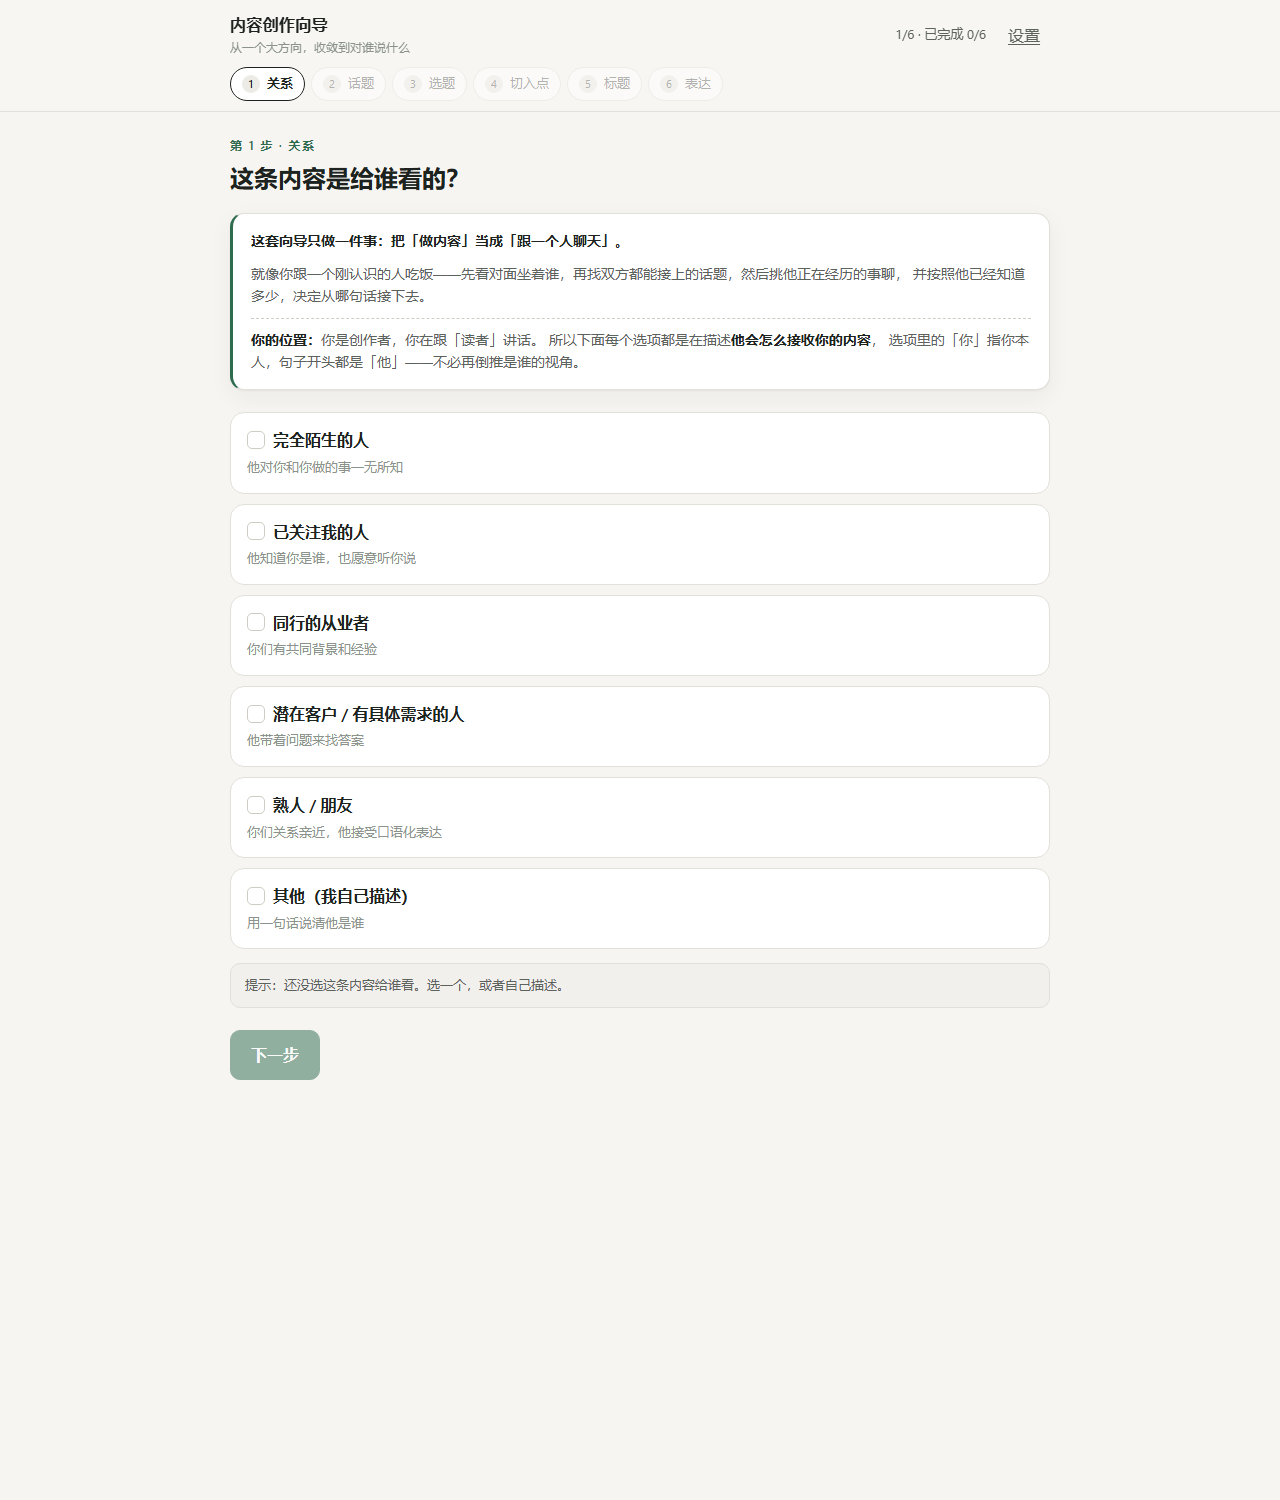
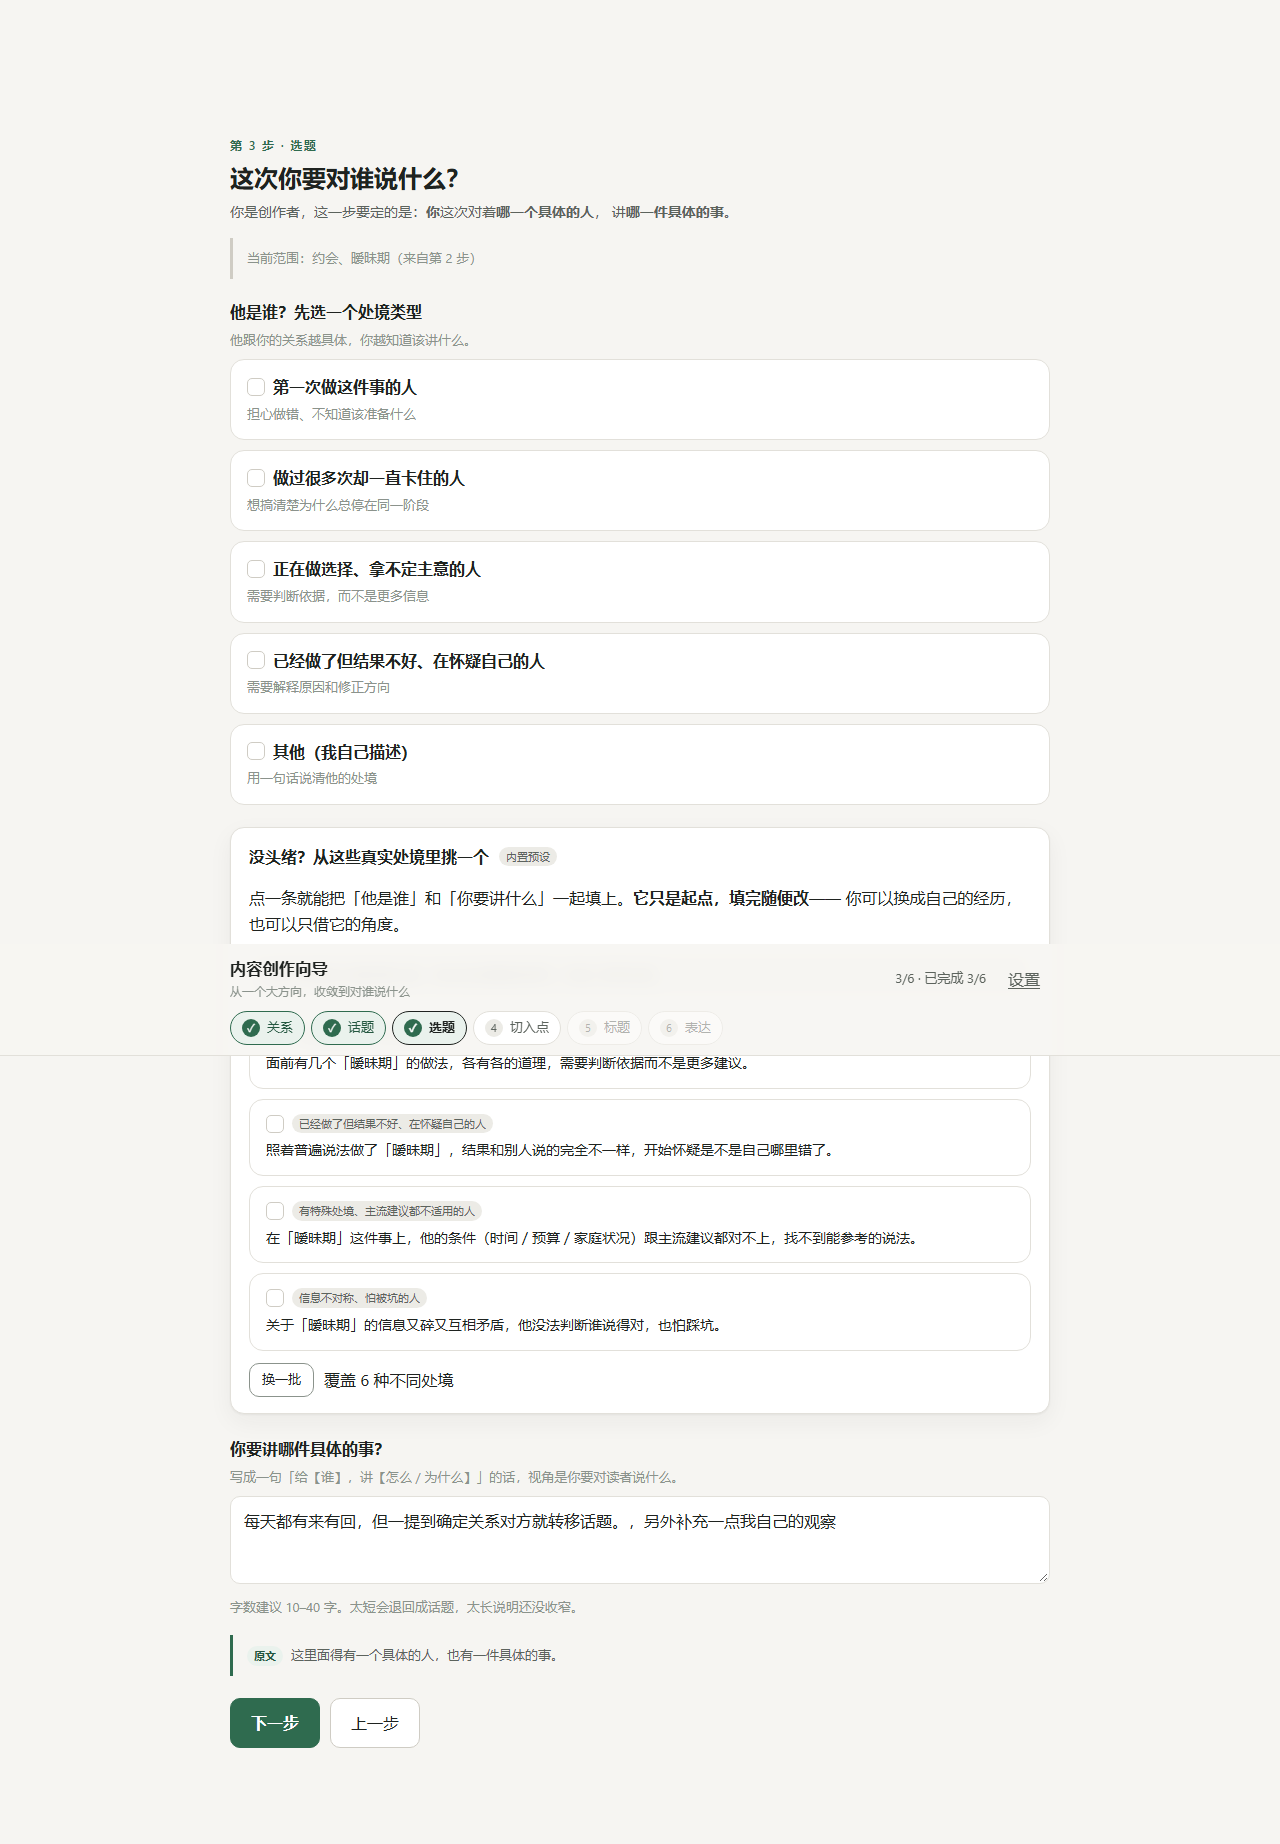
文档：补上新增验收项、灵感示例的来源边界与覆盖度专项

diff --git a/web/README.md b/web/README.md
@@ -75,20 +75,23 @@ web/
 ├── tsconfig.json
 ├── serve-dist.mjs            # 零依赖静态服务器（不 spawn 子进程）
 ├── verify.mjs                # 端到端验收脚本（puppeteer-core + 本机 Chrome）
+├── verify-coverage.mjs       # 专项：用预设库覆盖不到的话题验证灵感示例的相关性
 ├── shots/                    # 验收截图
 └── src/
     ├── main.tsx
     ├── App.tsx               # 步骤状态机、失效传播、导航
-    ├── types.ts              # 领域模型
-    ├── presets.ts            # 内置预设库与规则模板（离线可用）
+    ├── types.ts              # 领域模型 + 每步的原文摘录
+    ├── presets.ts            # 内置预设库、张力模板、灵感示例库（离线可用）
     ├── styles.css
     ├── lib/
     │   ├── model.ts          # 唯一的 AI 适配层，含全部回退逻辑
     │   ├── export.ts         # 简报 / 提示词 / JSON 三种导出（同一份数据源）
+    │   ├── import.ts         # JSON 导入口：把导出的快照粘回来继续改
     │   └── share.ts          # 分享链接（URL hash，纯前端）
     └── steps/
         ├── AudienceStep.tsx  TopicStep.tsx   SubjectStep.tsx
         ├── AngleStep.tsx     TitleStep.tsx   ExpressionStep.tsx
+        ├── StepQuote.tsx     # 做完该步之后才出现的原文摘录
         └── BriefView.tsx     # 最终简报 + 随标签切换的导出动作 + JSON 恢复
 ```
 
@@ -96,32 +99,70 @@ web/
 
 ## 验收结果
 
-`npm run verify` 会用真实 Chrome 走完整流程，逐条核对需求里的验收标准，当前 **41 / 41 通过**：
+`npm run verify` 会用真实 Chrome 走完整流程，逐条核对需求里的验收标准，当前 **56 / 56 通过**；另有 `verify-coverage.mjs` 专项验收 **5 / 5**。
 
 ```
 PASS  页面能加载并渲染第 1 步
+PASS  第 1 步有定位卡片讲清「跟一个人聊天」的参照系
+PASS  定位卡片说明使用者是创作者、并交代「你／他」指谁
+PASS  定位卡片不剧透后面的步骤
+PASS  受众选项的说明用第二人称，不含指代不明的「我」
+PASS  摘录在用户做完这一步之前不出现
+PASS  选完之后才显示该步的原文摘录
 PASS  第 1 步未选时无法进入第 2 步 — 按钮禁用，并给出明确原因
 PASS  输入「情感」出现可选子话题 — 候选数 4，含「约会」
 PASS  候选来源被如实标注 — 标注为内置预设而不是假装模型生成
 PASS  第 2 步未选子话题时无法前进 — 提醒而不是放行
+PASS  第 3 步给出 4 条以上结合当前话题的灵感示例
+PASS  示例是具体的人和事，不是泛泛的类型标签
+PASS  示例标注来源，且不谎称联网检索
+PASS  明说示例只是起点、可以改
+PASS  点一条示例即可一键填上「他是谁」和「你要讲什么」
+PASS  用户改动后不再标示该示例、也不覆盖他的修改
+PASS  「换一批」给的是不同角度的示例
 PASS  第 3 步只填一半时无法前进 — 提示缺哪一半
 PASS  第 4 步给出 6 类切入点候选
 PASS  切入点与选题的一致性提醒生效 / 确认后可消除警告
 PASS  每条标题都带生成理由 — 带理由的标题 3 条
 PASS  选择视频体裁后追加追问
 PASS  简报包含「这次不讲」的过滤清单
+PASS  简报里写明了视角（你/创作者 要对谁讲）
 PASS  导出的 JSON 可解析且字段完整 — schema=content-wizard/brief@1
 PASS  刷新后草稿仍在 localStorage
-PASS  改动第 3 步后「切入点」立刻标待确认
-PASS  改动第 3 步后「标题」立刻标待确认
-PASS  导出动作跟随当前标签且带格式名 — 复制这份JSON / 下载为文件 / 从 JSON 恢复
+PASS  改动第 3 步后「切入点」「标题」立刻标待确认
+PASS  导出动作跟随当前标签且带格式名
 PASS  无效 JSON 被拒绝并给出原因 — 不是静默失败
-PASS  JSON 往返后选题被完整恢复
-PASS  JSON 往返后切入点/标题/体裁一并恢复
+PASS  JSON 往返后选题/切入点/标题/体裁一并恢复
 PASS  页面图标可加载且是 SVG
 PASS  导入之后改上游，下游仍会标待确认
 PASS  外网不可达时页面仍可用（离线回退）
 ```
+
+### 专项验收：灵感示例的覆盖度
+
+`node verify-coverage.mjs` 故意用一个**内置预设库覆盖不到**的话题（默认「宠物殡葬」）跑第 3 步，确认不会退化成空白或通用模板：
+
+```
+PASS  「宠物殡葬」能给出子话题候选 — 入门 / 常见误区 / 真实成本 / 第一步
+PASS  第 3 步仍给出 4 条以上示例（不是空白）
+PASS  示例与当前话题真正相关，不是通用模板
+PASS  示例覆盖多种不同处境
+PASS  来源如实标注（模板拼出来的不冒充内置文案）— 「模板推导」
+```
+
+这条验收暴露过一个真问题：示例明明是用话题 + 通用句式**现拼**的，来源却标成了「内置预设」。现在内置成稿文案标「内置预设」、模板拼出来的标「模板推导」，不再夸大准确度。
+
+### 灵感示例的来源边界
+
+应用是浏览器直连 OpenAI 兼容端点，**没有联网检索能力**。所以示例只有三条来源路径，界面上如实区分：
+
+| 标注 | 含义 |
+|---|---|
+| 内置预设 | 预先写好的成稿文案（目前覆盖约会 / 暧昧期 / 长期关系 / 转行 / 育儿） |
+| 模板推导 | 用当前话题 + 通用张力句式现拼，覆盖任意话题 |
+| 主题推导 | 你配置的模型按话题生成，不是搜索结果 |
+
+要真正接入「网上人们在问什么」，需要额外的搜索接口——`CandidateSource` 里已经预留了 `search` 和「联网检索」标签，但当前没有实现，**也不会在没有联网时标成联网**。
 
 ### 导出设计：三种载体，两种意图
 
